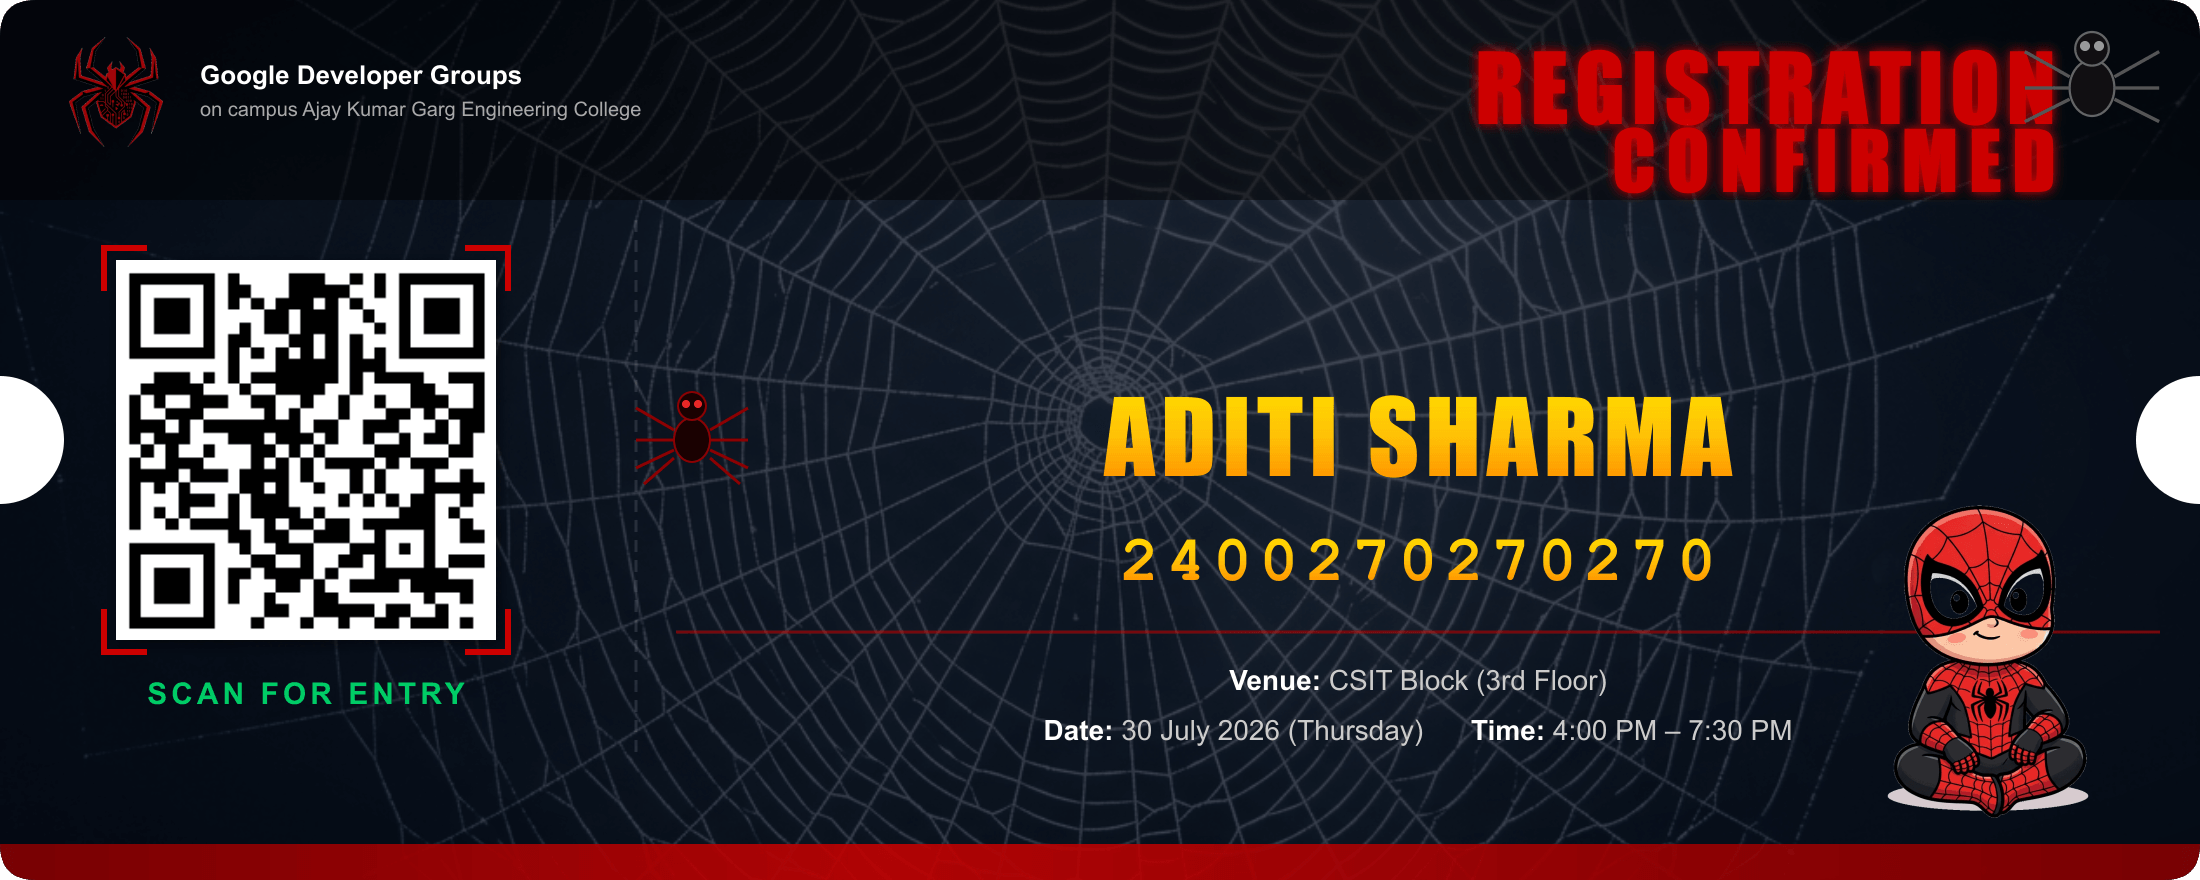
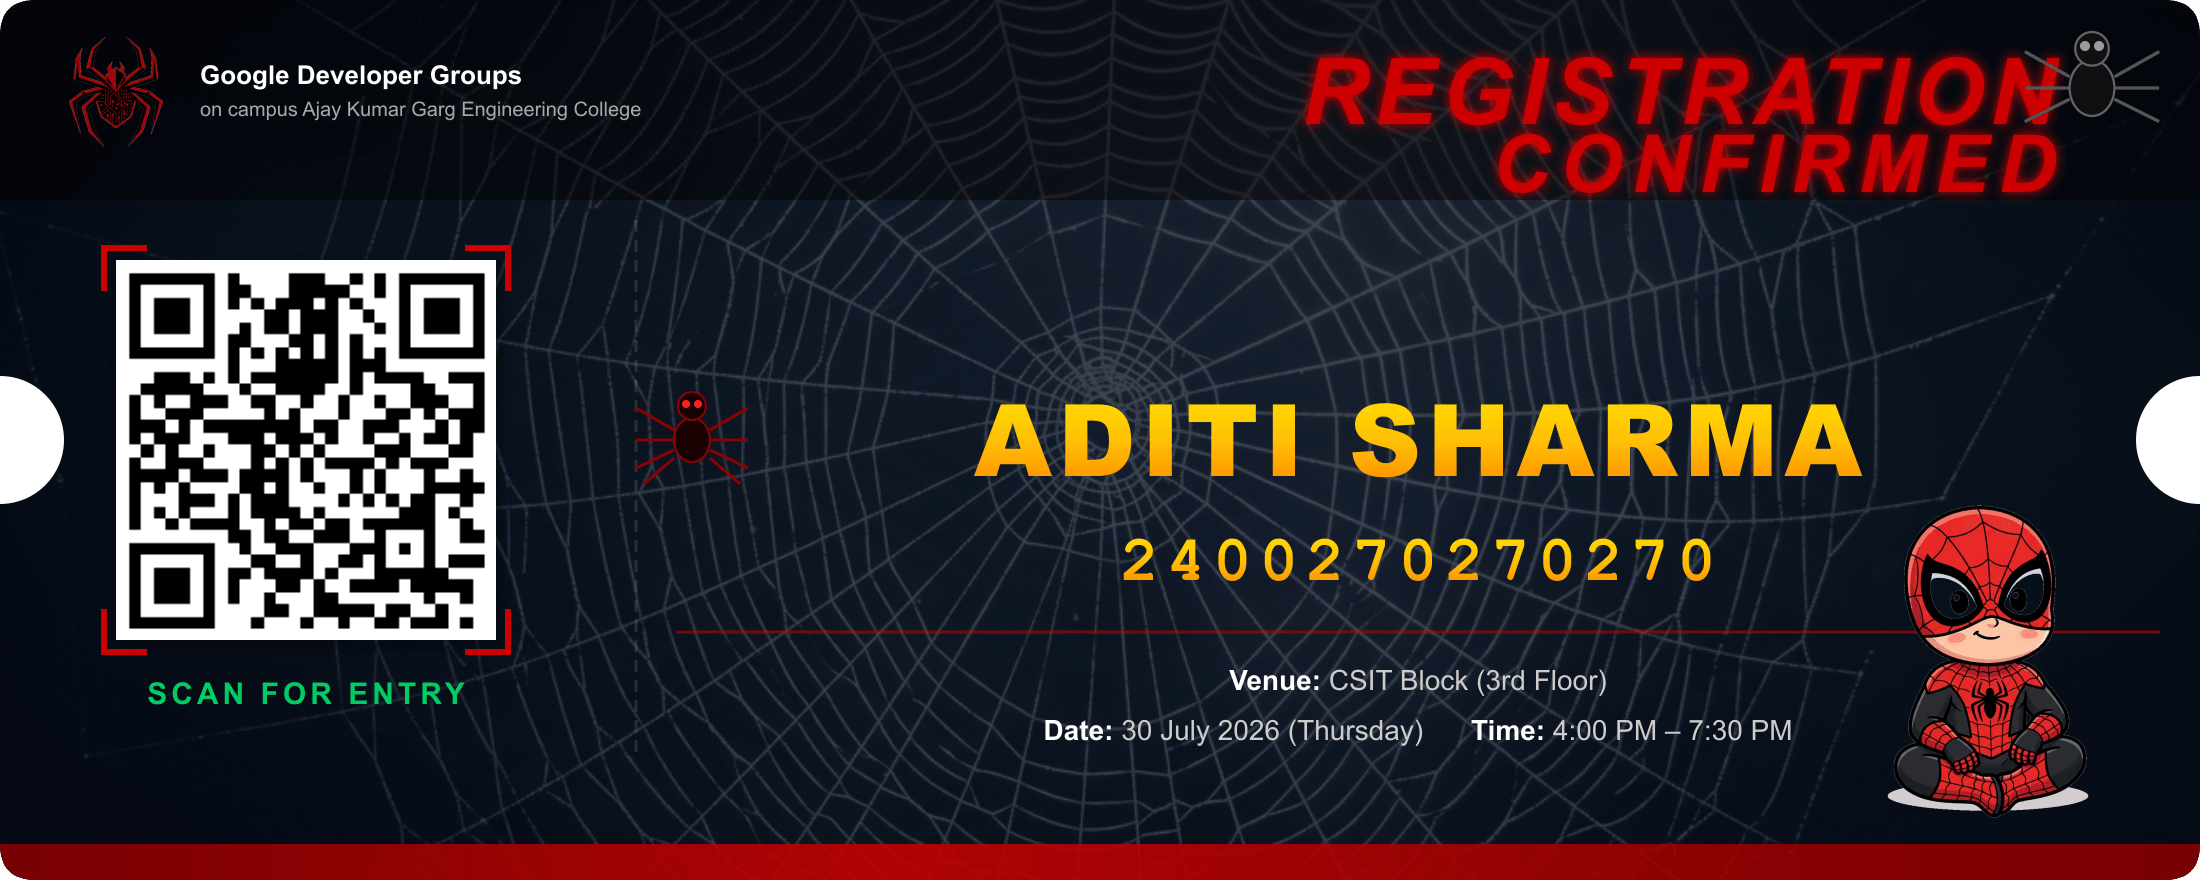
fix: use Linux-safe fonts for ticket SVG, remove WhatsApp section from emails, add CID inline ticket attachments

Changed region(s): [[0.5873, 0.0307, 0.9582, 0.2455], [0.4327, 0.4295, 0.8655, 0.5523]]

diff --git a/src/ticket/template.js b/src/ticket/template.js
@@ -229,22 +229,22 @@ export function buildTicketSVG(data) {
 
     <!-- GDG text block -->
     <text x="100" y="42"
-          font-family="'Arial', 'Helvetica', sans-serif"
+          font-family="'Liberation Sans', 'DejaVu Sans', 'Arial', sans-serif"
           font-size="13" font-weight="bold" fill="#FFFFFF">Google Developer Groups</text>
     <text x="100" y="58"
-          font-family="'Arial', 'Helvetica', sans-serif"
+          font-family="'Liberation Sans', 'DejaVu Sans', 'Arial', sans-serif"
           font-size="10" fill="#AAAAAA">on campus Ajay Kumar Garg Engineering College</text>
 
     <!-- "REGISTRATION CONFIRMED" heading -->
     <text x="${W - 72}" y="62"
-          font-family="'Impact', 'Arial Black', 'Arial', sans-serif"
+          font-family="'Liberation Sans', 'DejaVu Sans', 'Arial', sans-serif"
           font-size="46" font-weight="900" font-style="italic"
           fill="#CC0000"
           filter="url(#redGlow)"
           text-anchor="end"
           letter-spacing="3">REGISTRATION</text>
     <text x="${W - 72}" y="96"
-          font-family="'Impact', 'Arial Black', 'Arial', sans-serif"
+          font-family="'Liberation Sans', 'DejaVu Sans', 'Arial', sans-serif"
           font-size="40" font-weight="900" font-style="italic"
           fill="#CC0000"
           filter="url(#redGlow)"
@@ -284,7 +284,7 @@ export function buildTicketSVG(data) {
 
     <!-- "SCAN FOR ENTRY" label -->
     <text x="${qrX + qrSize / 2}" y="${qrY + qrSize + bracketGap + 26}"
-          font-family="'Arial', 'Helvetica', sans-serif"
+          font-family="'Liberation Sans', 'DejaVu Sans', 'Arial', sans-serif"
           font-size="15" font-weight="bold" fill="#00CC66"
           text-anchor="middle" letter-spacing="2">SCAN FOR ENTRY</text>
 
@@ -295,7 +295,7 @@ export function buildTicketSVG(data) {
 
     <!-- Participant NAME —— centred in right column -->
     <text x="${Math.round((divX + W) / 2)}" y="238"
-          font-family="'Impact', 'Arial Black', 'Arial', sans-serif"
+          font-family="'Liberation Sans', 'DejaVu Sans', 'Arial', sans-serif"
           font-size="50" font-weight="900"
           fill="url(#goldGrad)"
           text-anchor="middle"
@@ -305,7 +305,7 @@ export function buildTicketSVG(data) {
 
     <!-- Student ID / Registration ID -->
     <text x="${Math.round((divX + W) / 2)}" y="290"
-          font-family="'Courier New', 'Courier', monospace"
+          font-family="'DejaVu Sans Mono', 'Liberation Mono', 'Courier New', monospace"
           font-size="32" font-weight="bold"
           fill="url(#goldGrad)"
           text-anchor="middle"
@@ -319,13 +319,13 @@ export function buildTicketSVG(data) {
 
     <!-- Event info — 2 rows: Venue on first, Date+Time on second -->
     <text x="${Math.round((divX + W) / 2)}" y="345"
-          font-family="'Arial', 'Helvetica', sans-serif"
+          font-family="'Liberation Sans', 'DejaVu Sans', 'Arial', sans-serif"
           font-size="14" fill="#CCCCCC"
           text-anchor="middle">
       <tspan font-weight="bold" fill="#FFFFFF">Venue:</tspan> ${displayVenue}
     </text>
     <text x="${Math.round((divX + W) / 2)}" y="370"
-          font-family="'Arial', 'Helvetica', sans-serif"
+          font-family="'Liberation Sans', 'DejaVu Sans', 'Arial', sans-serif"
           font-size="14" fill="#CCCCCC"
           text-anchor="middle">
       <tspan font-weight="bold" fill="#FFFFFF">Date:</tspan> ${displayDate}

diff --git a/src/utils/emailService.js b/src/utils/emailService.js
@@ -90,14 +90,6 @@ export const sendRegisterationEmail = async (student) => {
 
             <p style="font-size: 16px; color: #333;">Hi <strong>${student.name || "Participant"}</strong>,</p>
             <p style="font-size: 16px; color: #555; line-height: 1.6;">Congratulations! Your registration for the upcoming GDG Event has been successfully completed. We are thrilled to have you onboard.</p>
-            
-            <div style="text-align: center; margin: 35px 0;">
-              <a href="https://chat.whatsapp.com/EHEkVLYg4ceAzhP8gPpVUL?mode=gi_t" 
-                 style="background-color: #25D366; color: #ffffff; padding: 16px 32px; border-radius: 50px; text-decoration: none; font-size: 16px; font-weight: bold; display: inline-block; box-shadow: 0 4px 12px rgba(37, 211, 102, 0.3); transition: all 0.3s ease;">
-                 Join WhatsApp Group
-              </a>
-              <p style="font-size: 13px; color: #777; margin-top: 14px;">Join the group for all important event updates!</p>
-            </div>
 
             <div style="background-color: #f4f8ff; padding: 24px; border-radius: 10px; margin: 25px 0; border-left: 4px solid #4285F4; border: 1px solid #e1e9fa;">
               <h3 style="color: #4285F4; margin-top: 0; font-size: 18px;">📍 Event Details</h3>
@@ -189,7 +181,6 @@ export const sendRegisterationEmail = async (student) => {
 // ==========================================
 export const sendReminderEmail = async (student) => {
   try {
-    const whatsappLink = "https://chat.whatsapp.com/EHEkVLYg4ceAzhP8gPpVUL?mode=gi_t";
     const passDataUri = await renderTicket(student);
 
     const mailOptions = {
@@ -215,20 +206,9 @@ export const sendReminderEmail = async (student) => {
             </div>
 
             <p style="font-size: 16px; color: #333;">Hi <strong>${student.name || "Participant"}</strong>,</p>
-           <p style="font-size: 16px; color: #555; line-height: 1.6;">
+            <p style="font-size: 16px; color: #555; line-height: 1.6;">
 This is a reminder for the upcoming event. We are excited to see you there! 
-<br/><br/>
-
-Ensure you have joined the WhatsApp group for further instructions.
 </p>
-            
-            <div style="text-align: center; margin: 35px 0;">
-              <a href="${whatsappLink}" 
-                 style="background-color: #25D366; color: #ffffff; padding: 16px 32px; border-radius: 50px; text-decoration: none; font-size: 16px; font-weight: bold; display: inline-block; box-shadow: 0 4px 12px rgba(37, 211, 102, 0.3); transition: all 0.3s ease;">
-                 Join WhatsApp Group
-              </a>
-              <p style="font-size: 15px; color: #d93025; margin-top: 14px; font-weight: bold;">⚠ Must join whatsapp group for further instruction!</p>
-            </div>
 
             <div style="background-color: #f4f8ff; padding: 24px; border-radius: 10px; margin: 25px 0; border-left: 4px solid #4285F4; border: 1px solid #e1e9fa;">
               <h3 style="color: #4285F4; margin-top: 0; font-size: 18px;">📍 Event Details</h3>
